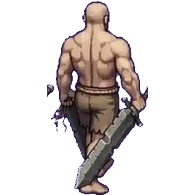
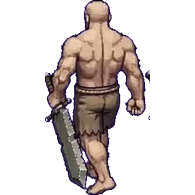
BUILD 440: swap NE/NW sword walk sheets (8 and 2 reversed)

Changed region(s): [[0.2154, 0.0, 0.7692, 1.0]]

diff --git a/index.html b/index.html
@@ -1,1 +1,1 @@
-<!doctype html><html lang="en"><head><!-- BUILD309-VIEWPORT-FIX-MARKER --><meta charset="UTF-8"><meta name="viewport" content="width=device-width, initial-scale=1.0, maximum-scale=1.0, user-scalable=no"><meta name="theme-color" content="#17362e"><link rel="icon" type="image/svg+xml" href="favicon.svg"><meta name="description" content="Explore Mosslight Crossing in the Adventure Game field journal."><title>Adventure Game — Mosslight Crossing</title></head><body><div id="root"></div><script>window.__AG_BUILD="439";(function(){var shown=false;function code(m){var h=0,s=window.__AG_BUILD+"|"+m;for(var i=0;i<s.length;i++){h=(Math.imul(h,31)+s.charCodeAt(i))|0;}return "AG"+window.__AG_BUILD+"-"+(h>>>0).toString(36).toUpperCase().padStart(6,"0").slice(-5);}function show(m,k){if(shown||window.__agBooted)return;shown=true;var d=document.createElement("div");d.id="ag-boot-crash";var p=document.createElement("div");p.className="ag-boot-panel";var t=document.createElement("div");t.className="ag-boot-title";t.textContent="\u26a0 GAME FAILED TO START";var c=document.createElement("div");c.className="ag-boot-code";c.textContent=code(String(m));var g=document.createElement("div");g.className="ag-boot-msg";g.textContent=String(m).slice(0,300);var n=document.createElement("div");n.className="ag-boot-kind";n.textContent=k;var b=document.createElement("button");b.textContent="Reload game";b.onclick=function(){location.reload();};p.appendChild(t);p.appendChild(c);p.appendChild(g);p.appendChild(n);p.appendChild(b);d.appendChild(p);document.body.appendChild(d);}window.addEventListener("error",function(e){if(e.target&&e.target!==window)return;show(e.message||"script error","boot error");},true);window.addEventListener("unhandledrejection",function(e){var r=e.reason;show((r&&(r.message||r))||"rejection","boot rejection");});setTimeout(function(){if(!window.__agBooted)show("The game did not finish loading in time.","load timeout");},20000);})();</script><style>#ag-boot-crash{position:fixed;inset:0;z-index:99999;background:#0d1a16;display:flex;align-items:center;justify-content:center;padding:24px}#ag-boot-crash .ag-boot-panel{max-width:420px;width:100%;background:#14261f;border:1px solid #2c4a3e;border-radius:12px;padding:24px;text-align:center;color:#e8f0e9;font-family:system-ui,sans-serif}#ag-boot-crash .ag-boot-title{font-size:20px;font-weight:800;letter-spacing:.5px}#ag-boot-crash .ag-boot-code{font-family:monospace;font-size:22px;color:#ffd75e;margin:12px 0;letter-spacing:1px}#ag-boot-crash .ag-boot-msg{font-size:13px;color:#b9c9bd;word-break:break-word}#ag-boot-crash .ag-boot-kind{font-size:11px;color:#7d8f83;margin-top:8px;text-transform:uppercase;letter-spacing:1px}#ag-boot-crash button{margin-top:16px;background:#e8a33d;border:0;border-radius:8px;padding:10px 22px;font-size:15px;font-weight:700;color:#231603;cursor:pointer}</style><script type="module" src="/src/main.tsx"></script></body></html>
+<!doctype html><html lang="en"><head><!-- BUILD309-VIEWPORT-FIX-MARKER --><meta charset="UTF-8"><meta name="viewport" content="width=device-width, initial-scale=1.0, maximum-scale=1.0, user-scalable=no"><meta name="theme-color" content="#17362e"><link rel="icon" type="image/svg+xml" href="favicon.svg"><meta name="description" content="Explore Mosslight Crossing in the Adventure Game field journal."><title>Adventure Game — Mosslight Crossing</title></head><body><div id="root"></div><script>window.__AG_BUILD="440";(function(){var shown=false;function code(m){var h=0,s=window.__AG_BUILD+"|"+m;for(var i=0;i<s.length;i++){h=(Math.imul(h,31)+s.charCodeAt(i))|0;}return "AG"+window.__AG_BUILD+"-"+(h>>>0).toString(36).toUpperCase().padStart(6,"0").slice(-5);}function show(m,k){if(shown||window.__agBooted)return;shown=true;var d=document.createElement("div");d.id="ag-boot-crash";var p=document.createElement("div");p.className="ag-boot-panel";var t=document.createElement("div");t.className="ag-boot-title";t.textContent="\u26a0 GAME FAILED TO START";var c=document.createElement("div");c.className="ag-boot-code";c.textContent=code(String(m));var g=document.createElement("div");g.className="ag-boot-msg";g.textContent=String(m).slice(0,300);var n=document.createElement("div");n.className="ag-boot-kind";n.textContent=k;var b=document.createElement("button");b.textContent="Reload game";b.onclick=function(){location.reload();};p.appendChild(t);p.appendChild(c);p.appendChild(g);p.appendChild(n);p.appendChild(b);d.appendChild(p);document.body.appendChild(d);}window.addEventListener("error",function(e){if(e.target&&e.target!==window)return;show(e.message||"script error","boot error");},true);window.addEventListener("unhandledrejection",function(e){var r=e.reason;show((r&&(r.message||r))||"rejection","boot rejection");});setTimeout(function(){if(!window.__agBooted)show("The game did not finish loading in time.","load timeout");},20000);})();</script><style>#ag-boot-crash{position:fixed;inset:0;z-index:99999;background:#0d1a16;display:flex;align-items:center;justify-content:center;padding:24px}#ag-boot-crash .ag-boot-panel{max-width:420px;width:100%;background:#14261f;border:1px solid #2c4a3e;border-radius:12px;padding:24px;text-align:center;color:#e8f0e9;font-family:system-ui,sans-serif}#ag-boot-crash .ag-boot-title{font-size:20px;font-weight:800;letter-spacing:.5px}#ag-boot-crash .ag-boot-code{font-family:monospace;font-size:22px;color:#ffd75e;margin:12px 0;letter-spacing:1px}#ag-boot-crash .ag-boot-msg{font-size:13px;color:#b9c9bd;word-break:break-word}#ag-boot-crash .ag-boot-kind{font-size:11px;color:#7d8f83;margin-top:8px;text-transform:uppercase;letter-spacing:1px}#ag-boot-crash button{margin-top:16px;background:#e8a33d;border:0;border-radius:8px;padding:10px 22px;font-size:15px;font-weight:700;color:#231603;cursor:pointer}</style><script type="module" src="/src/main.tsx"></script></body></html>
